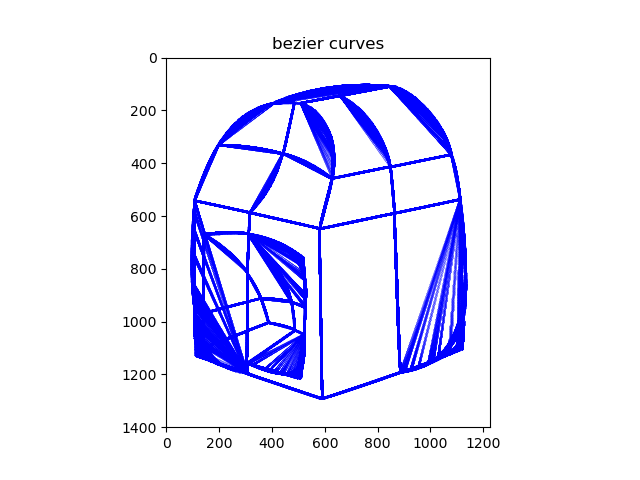
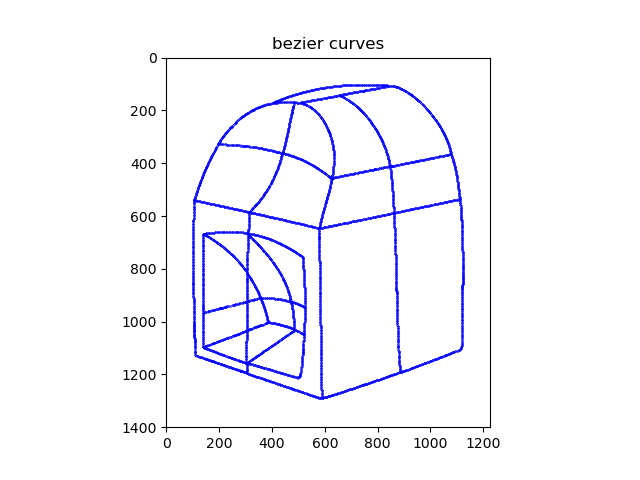
perturbation operators

diff --git a/hypergaph_simplification.py b/hypergaph_simplification.py
@@ -3,8 +3,8 @@ import matplotlib.pyplot as plt
 import numpy as np
 
 """structure of an hyperedges should be like so : 
-H = [(3, 2), (2, 14), (7,4)] 
-tuple (i,j) : i corresponds to the vertex index, and j the index of said edge in edges_list. So the final list of pixels is edges_list[i][j]
+H = [(3, 2), (2, 14), (14,7)] 
+tuple (i,j) : where i is the start point and j the end point. (i,j) can be found in edges_list[i] such that edge[-1] == j
 """
 
 def fidelity_energy(skeleton, hyperedges : list) :
@@ -25,6 +25,7 @@ def fidelity_energy(skeleton, hyperedges : list) :
     energy = 0
     for hyperedge in hyperedges : 
         i, j = hyperedge
+        edge = 0
         edge = hyperedges[i][j]
         P0 = edge[0]
         P3 = edge[-1]
@@ -95,7 +96,7 @@ def merge_and_split(hyperedges: list, degrees : list, edges_list, max_changes = 
             split_index = np.random.randint(0,len(hyperedges))
             #must get the values to use them further on
             degree = degrees[split_index].copy()
-            hyperedge_to_split = hyperedges[split_index].copy()
+            hyperedge_to_split = hyperedges[split_index].copy() #list of tuples
             if len(hyperedge_to_split)>1:
                 #split the edge
                 split_point = np.random.randint(1, len(hyperedge_to_split)-1)
@@ -112,30 +113,120 @@ def merge_and_split(hyperedges: list, degrees : list, edges_list, max_changes = 
                   
     else : # merge
         for i in range(nb_changes):
+            #choose the hyperedge to merge
             merge_index = np.random.randint(0,len(hyperedges))
-            edge1 = hyperedges[merge_index].copy()
-            degree = degrees[merge_index]
-            vertex = hyperedges[merge_index][0]
+            hyperedge1 = hyperedges[merge_index].copy()
 
-            # must find the hyperedges with a common vertex
+            degree = degrees[merge_index]
+
+            vertex = hyperedges[merge_index][0] #merging vertex
+            # must find the hyperedges starting or ending by vertex
             list = []
             for j in range(len(hyperedges)):
                 if j != merge_index : 
                     hyperedge = hyperedges[j]
-                    if hyperedge[0][0] == vertex or edges_list[hyperedge[-1][0]][hyperedge[-1][1]][-1] == vertex :
+                    if hyperedge[0][0] == vertex or hyperedge[-1][-1] == vertex :
                         list.append(j)
 
             other_merge_index = np.random.choice(list)
-            edge2 = hyperedges[other_merge_index].copy()
+            while hyperedges[other_merge_index][0] == hyperedge1[0] or hyperedges[other_merge_index][-1][0] == hyperedge1[0][1] :
+                #for convenience, I'd rather not handle the case where the hyperedges are included one into the other one
+                other_merge_index = np.random.choice(list)
 
-            if edge2[0] ==  vertex : #both edges start with the same vertex
-                edge2.reverse()
-            edge2 = edge2 + edge1
+            hyperedge2 = hyperedges[other_merge_index].copy()
+
+            if hyperedge2[0][0] ==  vertex :
+                hyperedge2.reverse() #both edges start with the same vertex
+                for e in range(len(hyperedge2)) :
+                    i, j = hyperedge2[e]
+                    hyperedge2[e] = (j,i)
+
+
+            hyperedge2 = hyperedge2 + hyperedge1
             del hyperedges[merge_index]
             del hyperedges[other_merge_index]
             del degrees[merge_index]
             del degrees[other_merge_index]
-            hyperedges.append(edge2)
+            hyperedges.append(hyperedge2)
             degrees.append(degree)
     return hyperedges, degrees
 
+
+def degree_switch(degrees, proba):
+    """
+    For each degree in `degrees`, there is a probibility inferior to `proba` that its value will be recomputed, by being randomly generated in {1, 2, 3}.
+    
+    Parameters : 
+    --------------
+    `degrees` : the list of degrees for all the bezier curves associated to the hyperedges.
+    `proba` : the flip probability. Must be in [0, 1]
+
+    Returns :
+    --------------
+    `degrees`
+
+    """
+    for d in range(len(degrees)) : 
+        if np.abs(proba-1) < 10e-7 :
+            degrees[d] = np.random.randint(1, 4)
+        else : 
+            flip = np.random.random(1)
+            if flip <= proba : 
+                degrees[d] = np.random.randint(1, 4)
+    return degrees
+                
+
+def overlap_and_dissociation(hyperedges : list, max_changes = 15) :
+    """
+    
+    Parameters : 
+    ---------------
+    `hyperedges` : 
+    `max_changes` : 
+    
+    Returns :
+    ---------------
+    """
+    mode = np.random.randint(0,2)
+    nb_changes = np.random.randint(0,max_changes)
+    if mode == 0 : #overlap
+        #must choose nb_changes random hyperedges and split them at a random place.
+        for i in range(nb_changes):
+            pass
+    else : # dissociate
+        pass
+
+def convert_to_hypergraph(edges_list):
+    hypergraph = []
+    for edge_list in edges_list : 
+        for edge in edge_list : 
+            i = edge[0]
+            j = edge[-1]
+            hypergraph.append([(i,j)])
+    return hypergraph
+
+def modified_metropolis_hastings(hyperedges, edges_list, degrees, junctions_indices, Tinit : float = 1, flip_proba = 0.3):
+    """
+    
+    Parameters : 
+    --------------
+    
+    Returns : 
+    --------------
+    
+    """
+    if len(junctions_indices) < 1 : 
+        raise Exception("graph is empty")
+        exit(0)
+    hyperedges = convert_to_hypergraph(edges_list)
+    T = Tinit
+    V = len(junctions_indices)
+    C = 0.999**(1/V)
+    T_end = C**10000
+    while T > T_end : 
+        perturbation_operator = np.random.randint(0, 3)
+        if perturbation_operator == 0 : 
+            hyperedges, degrees = merge_and_split(hyperedges, degrees, edges_list)
+        elif perturbation_operator == 1 : 
+            degrees = degree_switch(degrees, flip_proba)
+            

diff --git a/skeleton.py b/skeleton.py
@@ -559,7 +559,7 @@ def topological_graph(skeleton, name) -> tuple[list, list] :
 
 
 def test() :
-    name = 'dino'
+    name = 'coffee_machine'
     image = cv.imread("results/" + name +"_no_contour.png")
     image = cv.cvtColor(image, cv.COLOR_BGR2GRAY)
 
